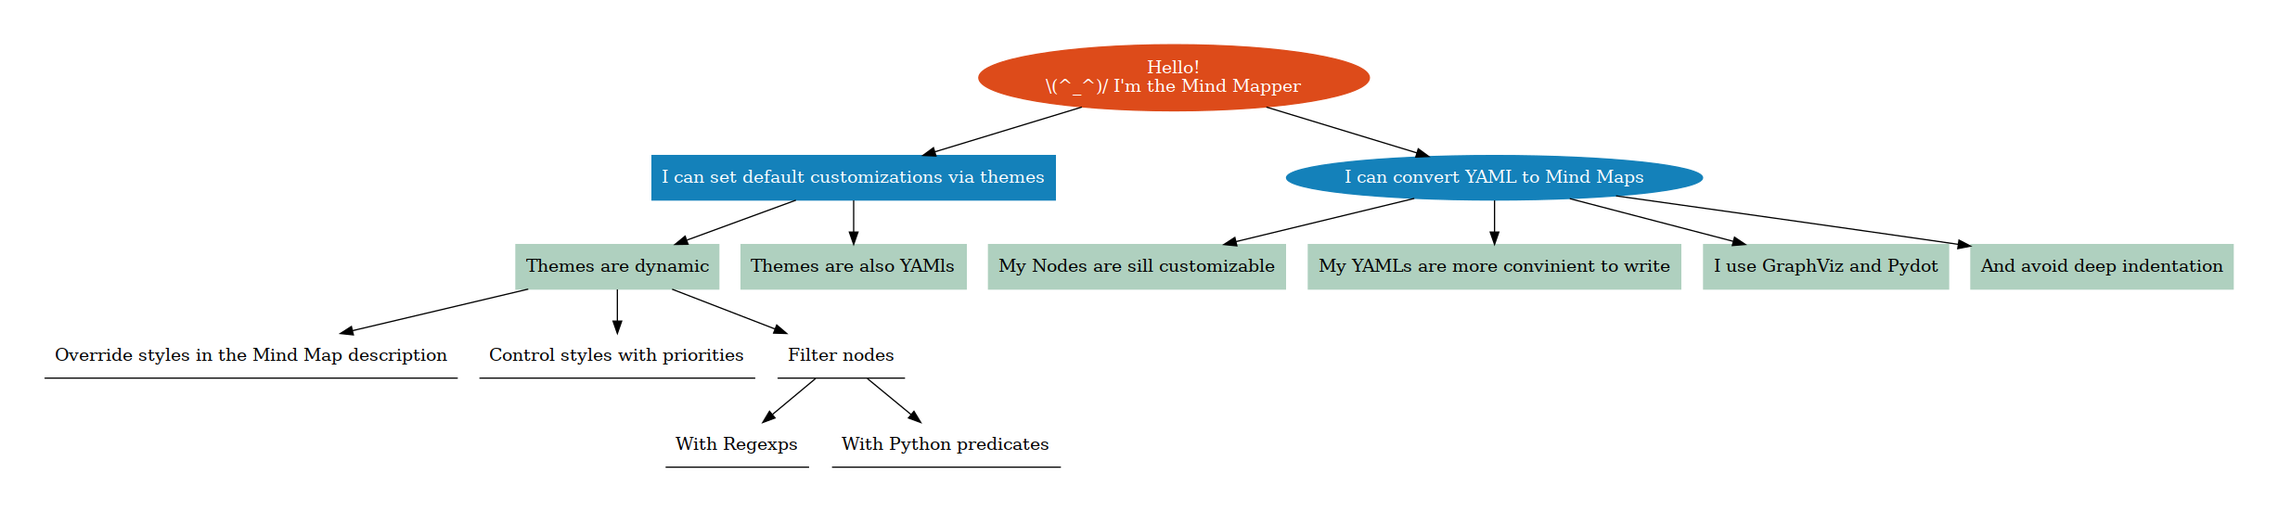
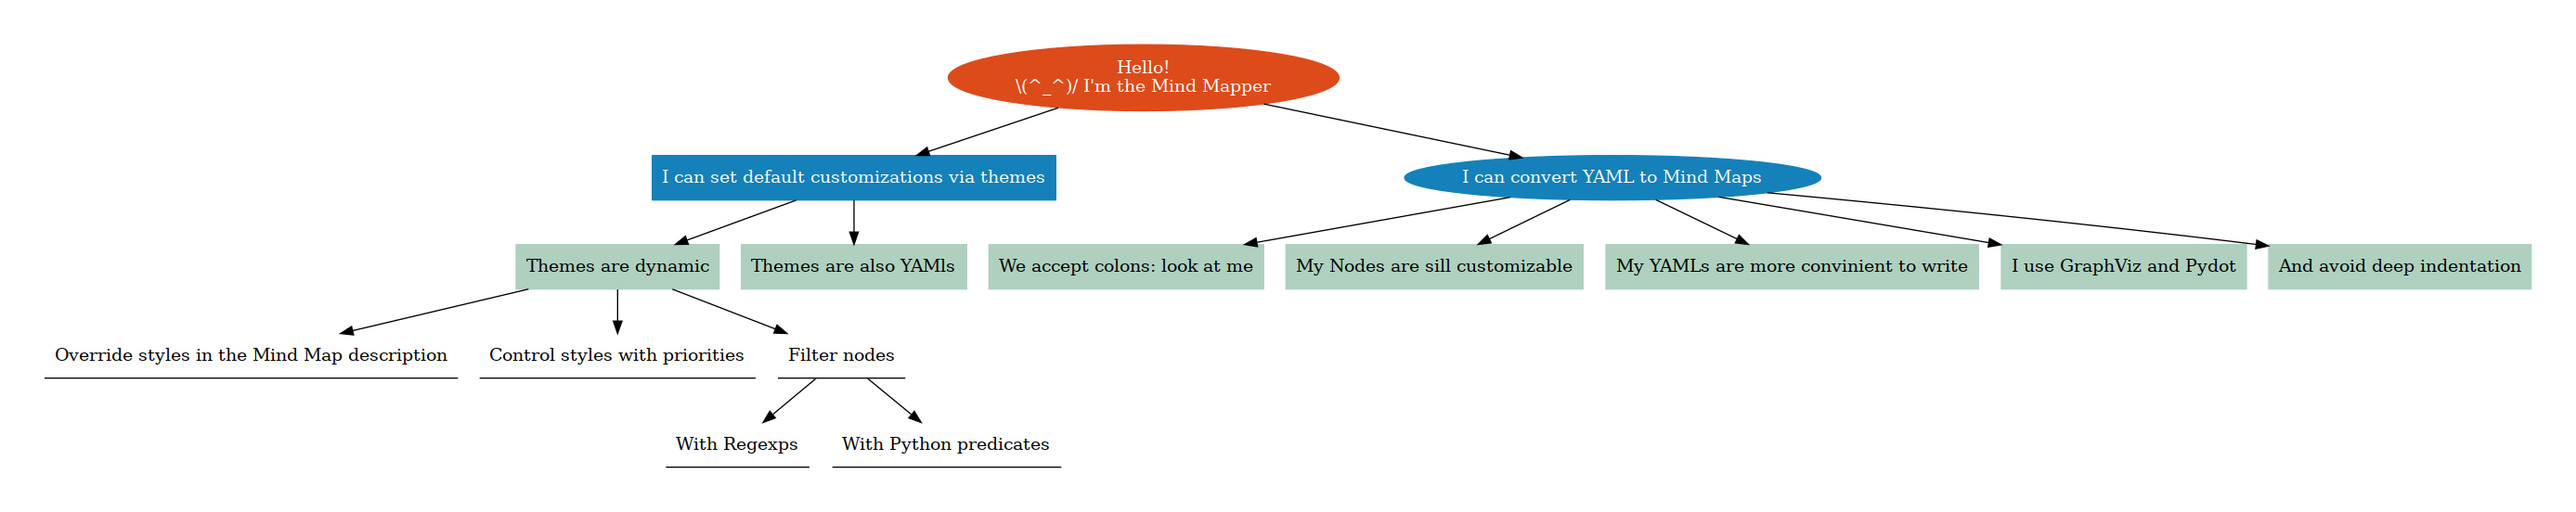
Add labels setting instead of names
It helps to avoid the "colon issue" in name

diff --git a/mind_mapper/models.py b/mind_mapper/models.py
@@ -5,7 +5,7 @@ import pydot
 
 class Node(pydot.Node):
     def __init__(self, name: str, parent: "Node", children: t.Optional[t.List["Node"]] = None, **init_attrs):
-        super().__init__(name)
+        super().__init__(name=self.hash_name(name), label=name)
         self.parent = parent
         self.depth: int = parent.depth + 1 if parent else 0
 
@@ -13,9 +13,25 @@ class Node(pydot.Node):
         self.init_attrs = init_attrs
         self.theme_attrs: t.Dict[str, t.Any] = {}
 
+    @staticmethod
+    def hash_name(name: str) -> str:
+        return f"{name[:10]}-{hash(name)}"
+
     @property
     def name(self) -> str:
         return self.get_name()
+
+    @name.setter
+    def name_setter(self, val: str) -> None:
+        self.set_name(val)
+
+    @property
+    def label(self) -> str:
+        return self.get("label")
+
+    @label.setter
+    def label_setter(self, val: str) -> None:
+        self.set("label", val)
 
     @property
     def attrs(self) -> t.Dict[str, t.Any]:
